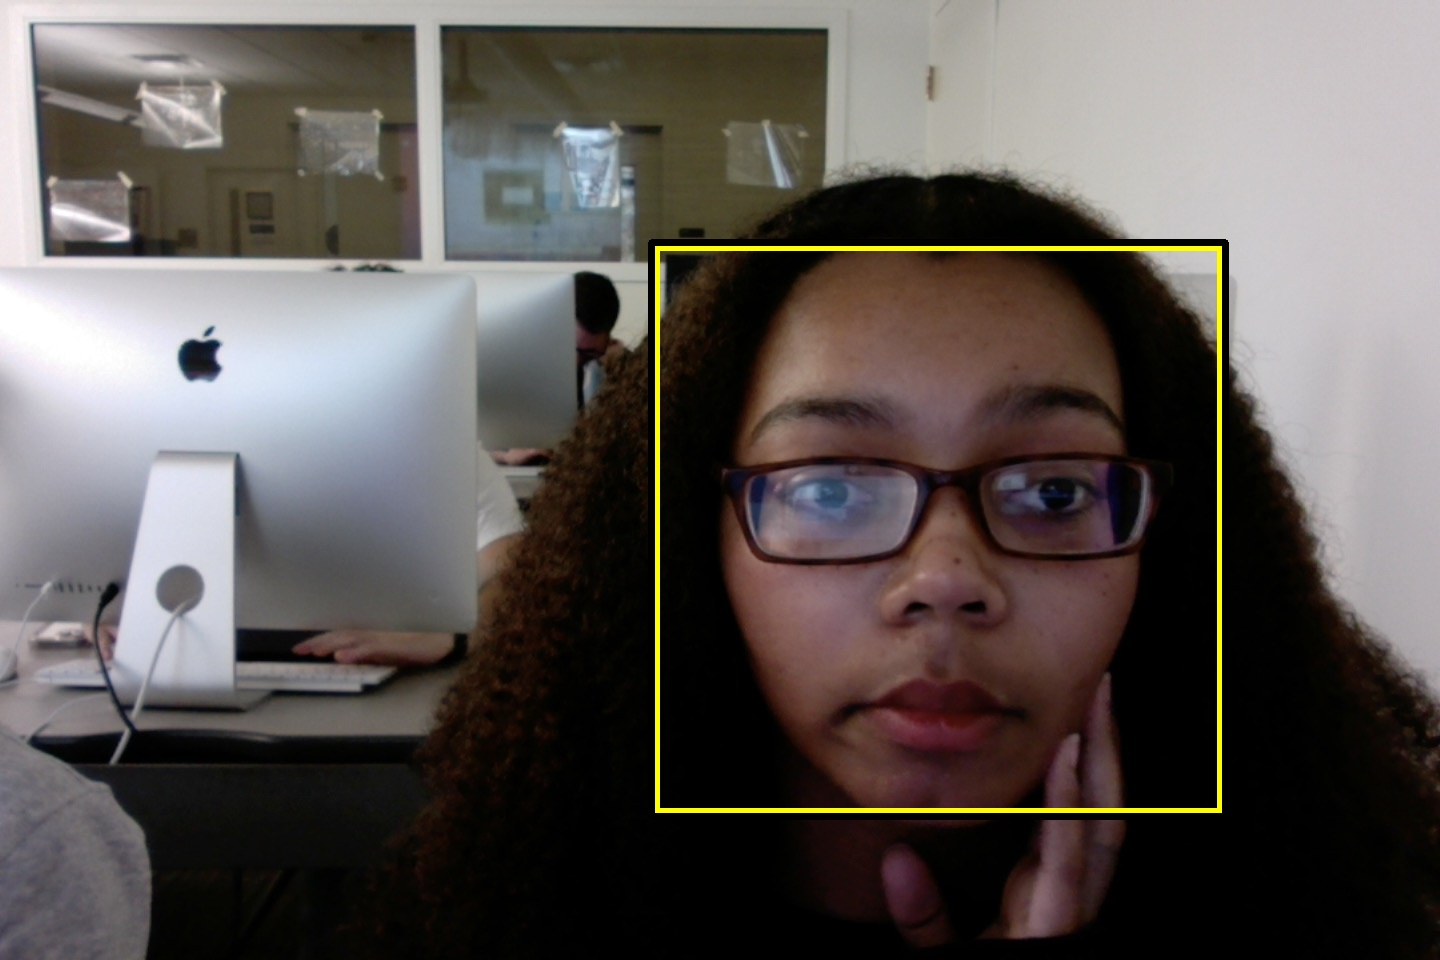
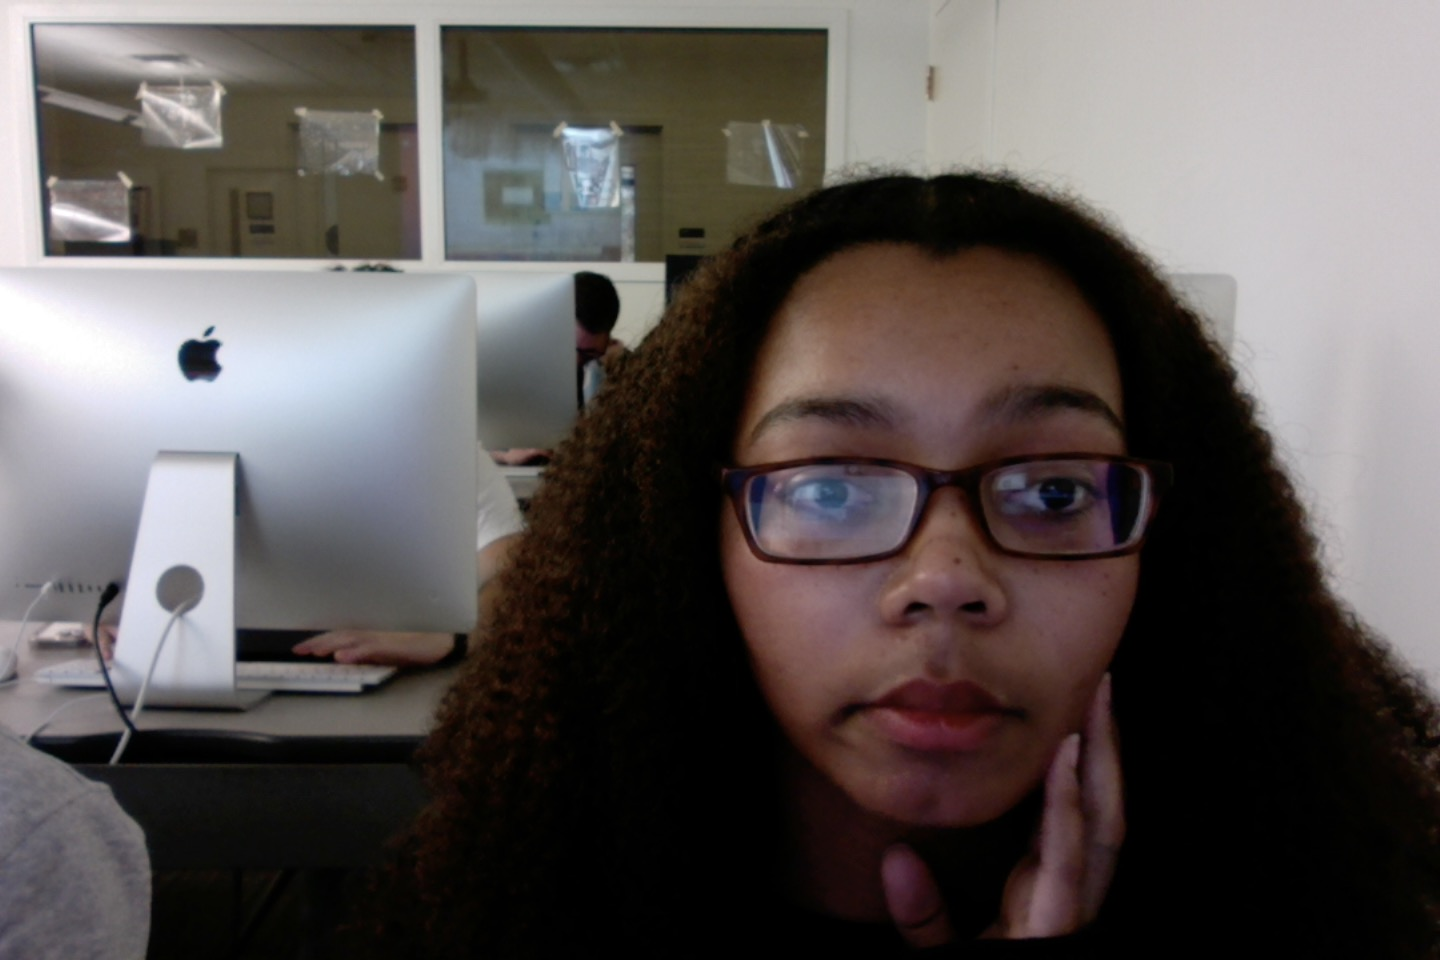
Fixed facedetect.py to not overwrite example.jpg

Changed region(s): [[0.4375, 0.25, 0.875, 0.8438], [0.5625, 0.8438, 0.7812, 0.875]]

diff --git a/facedetect.py b/facedetect.py
@@ -30,6 +30,6 @@ for (x, y, w, h) in faces:
 
 # Display the output
 cv2.imshow('press any key to exit', img)
-cv2.imwrite('example.jpg',img)
+cv2.imwrite('example_out.jpg',img)
 cv2.waitKey(0) # blocks until a key is pressed when window is active.
 cv2.destroyAllWindows()
